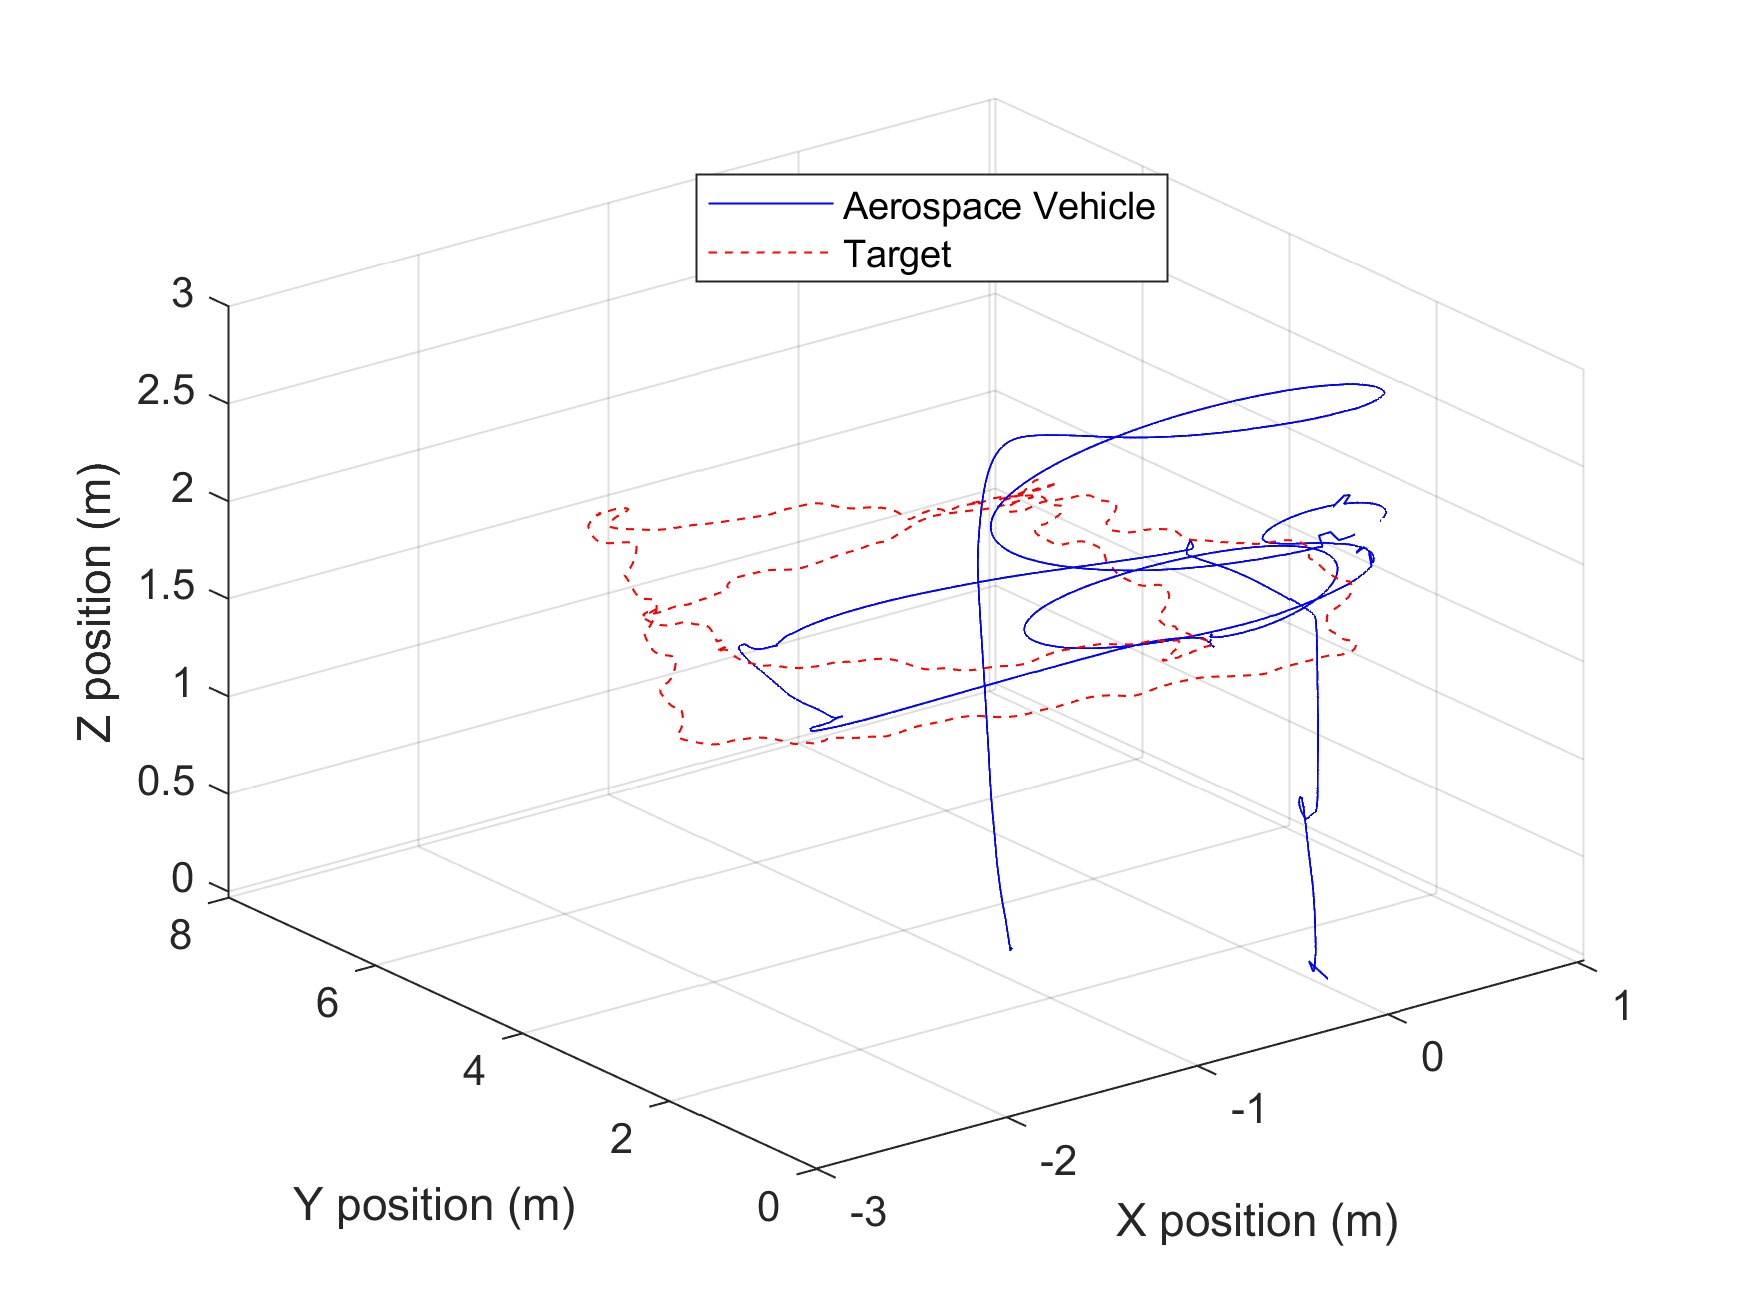
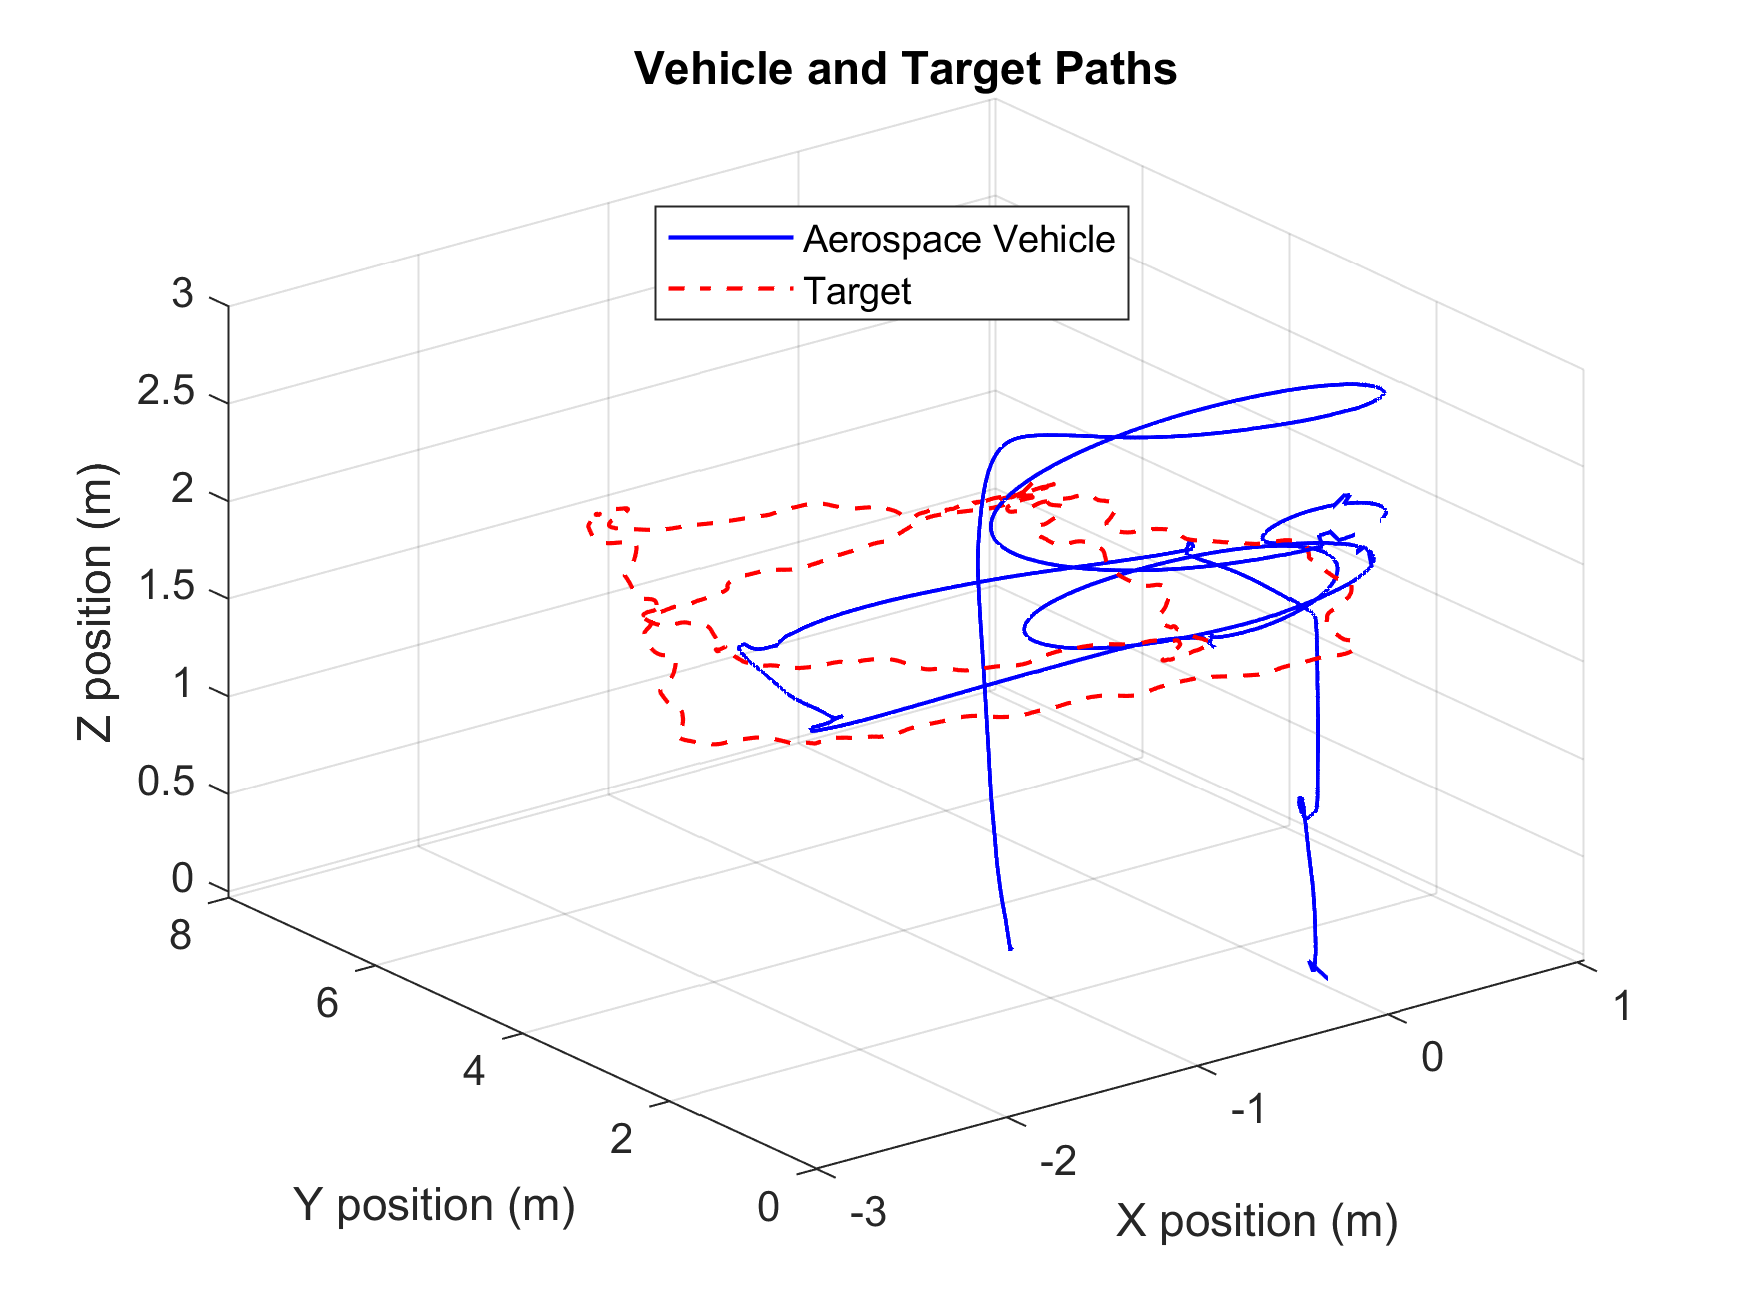
Add files via upload

diff --git a/lab2.m b/lab2.m
@@ -47,11 +47,11 @@ plot3(pos_tar_N(1,:),pos_tar_N(2,:),pos_tar_N(3,:),'--r',LineWidth=1);
 grid on;
 lgd = legend('Aerospace Vehicle','Target');
 set(lgd,'Position',[0.374158609854457 0.756341084558016 0.271071432862963 0.0869047637212845]);
-title("Vehicle and Target Paths vs. Time")
+title("Vehicle and Target Paths")
 xlabel('X position (m)')
 ylabel('Y position (m)')
 zlabel('Z position (m)')
-print("Path vs Time","-dpng","-r300")
+print("3D Drone and Target Paths","-dpng","-r300")
 
 % Question 4 (Frame E) Position and Attitude vs. Time
 
